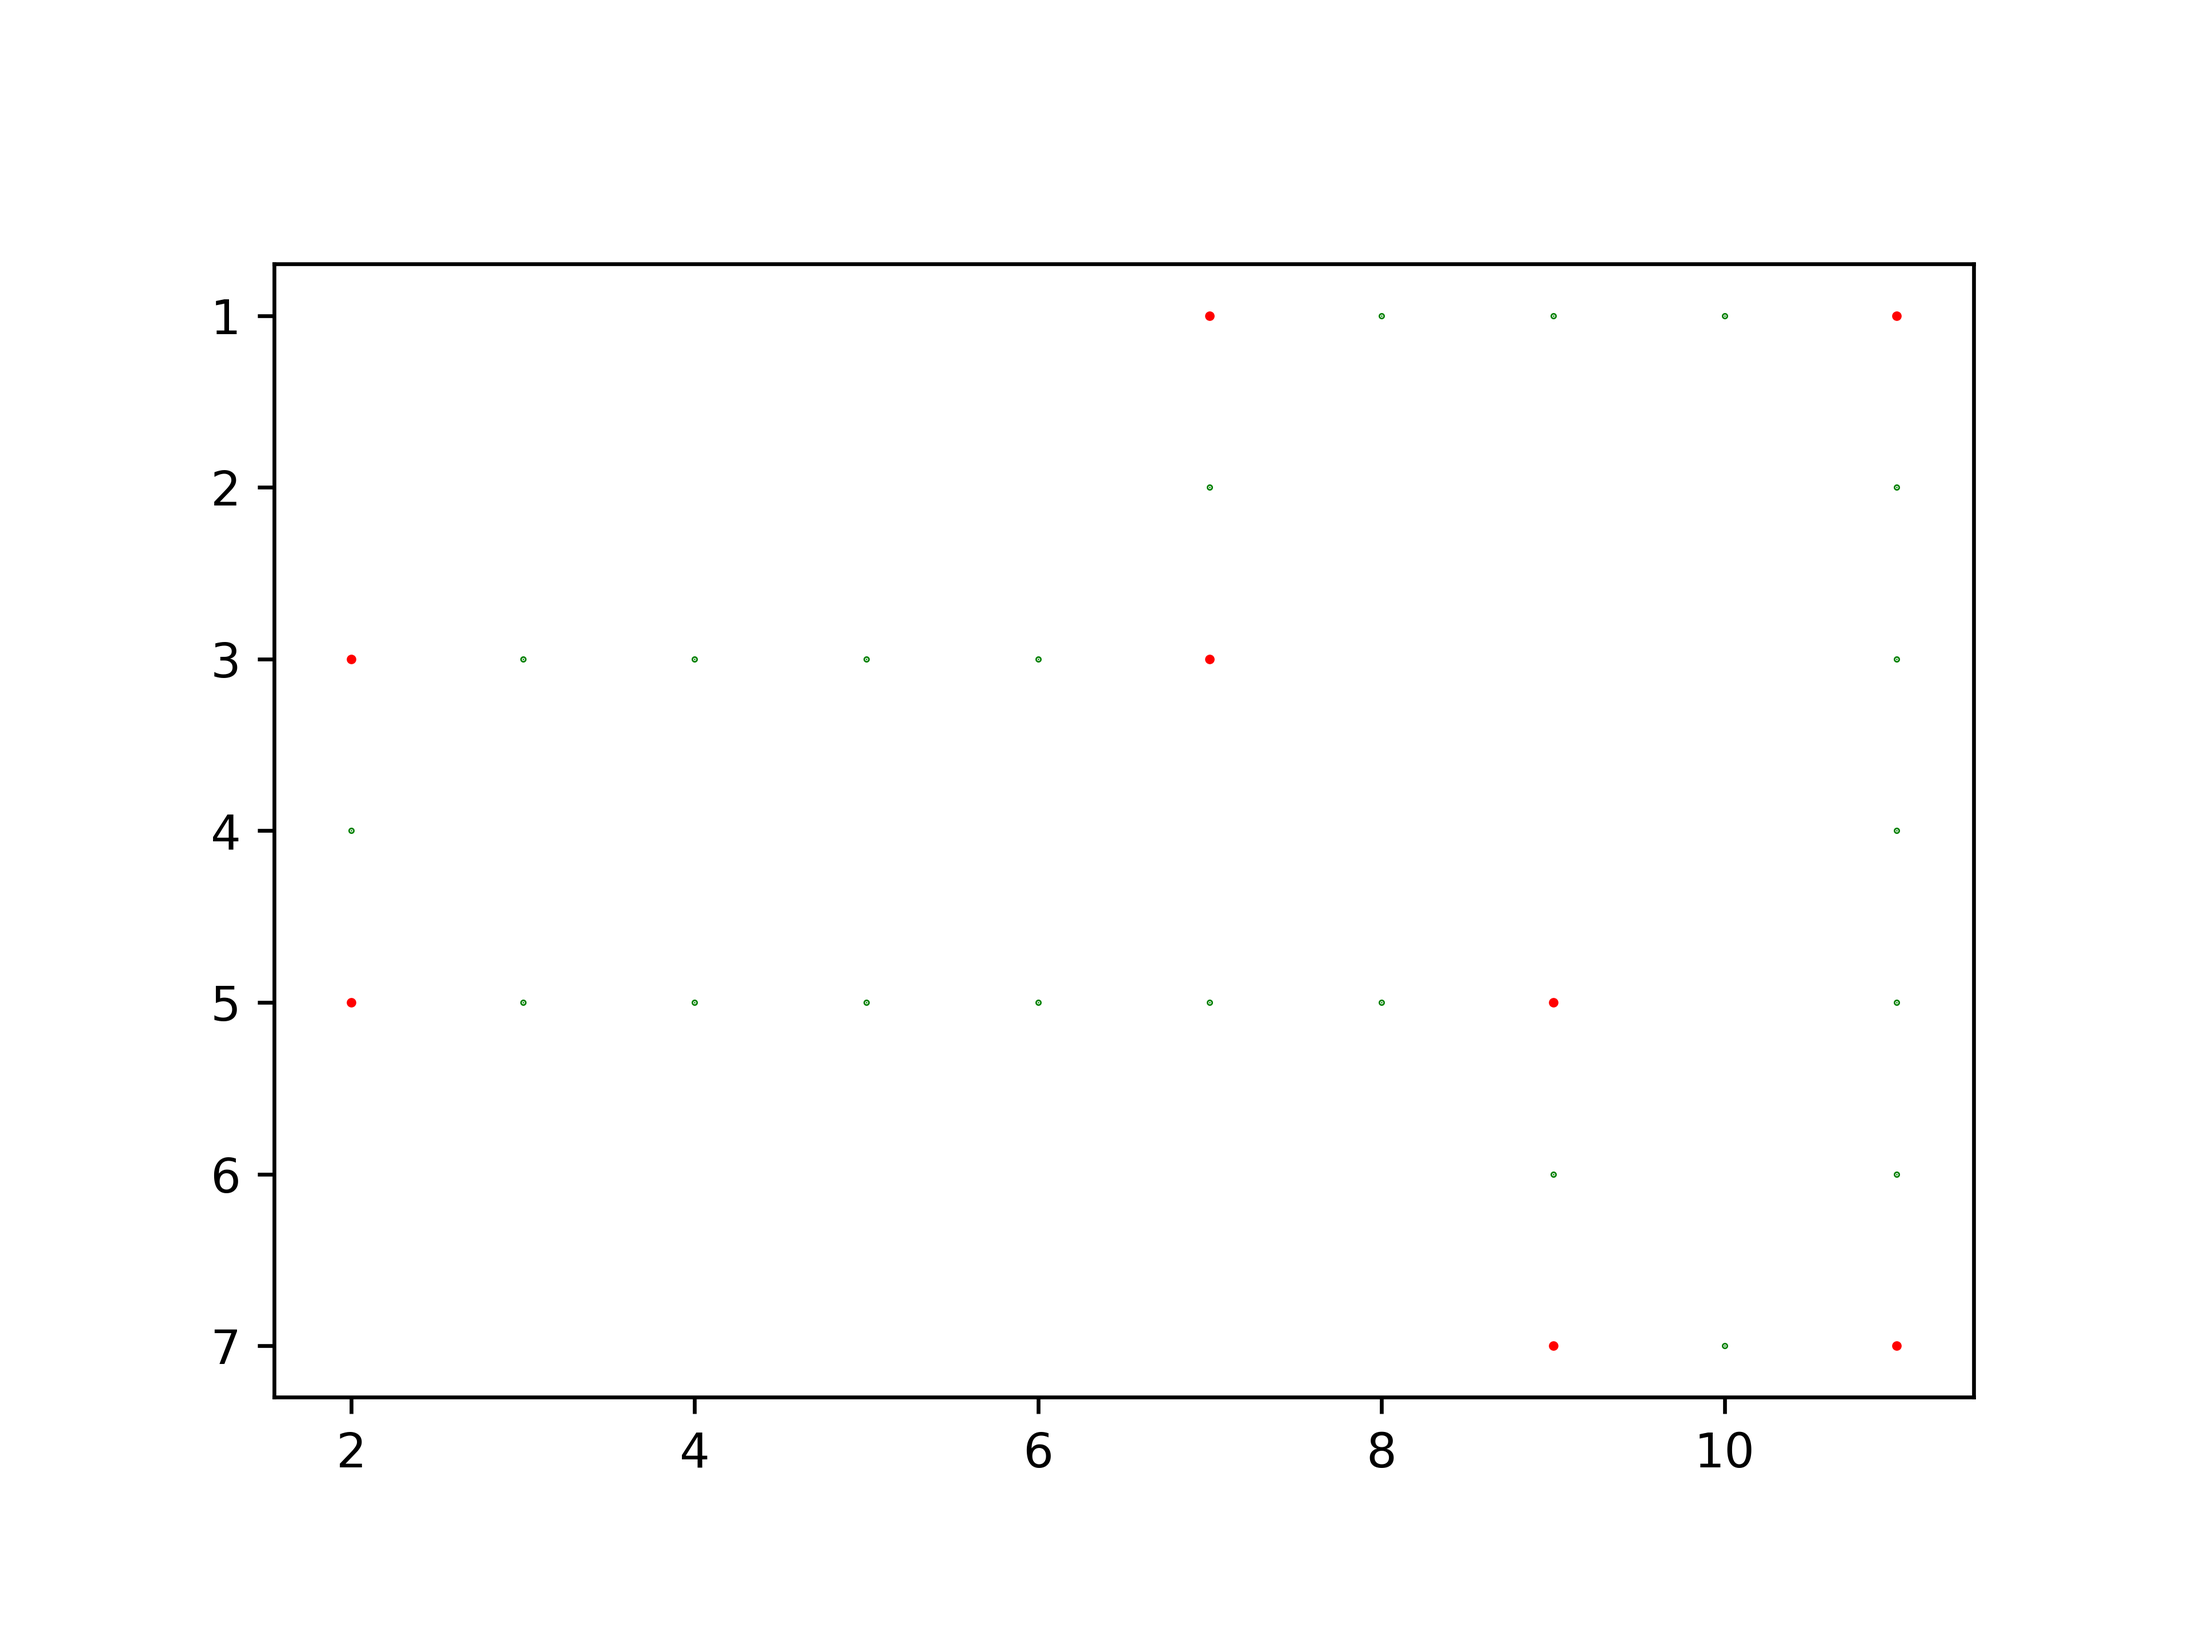
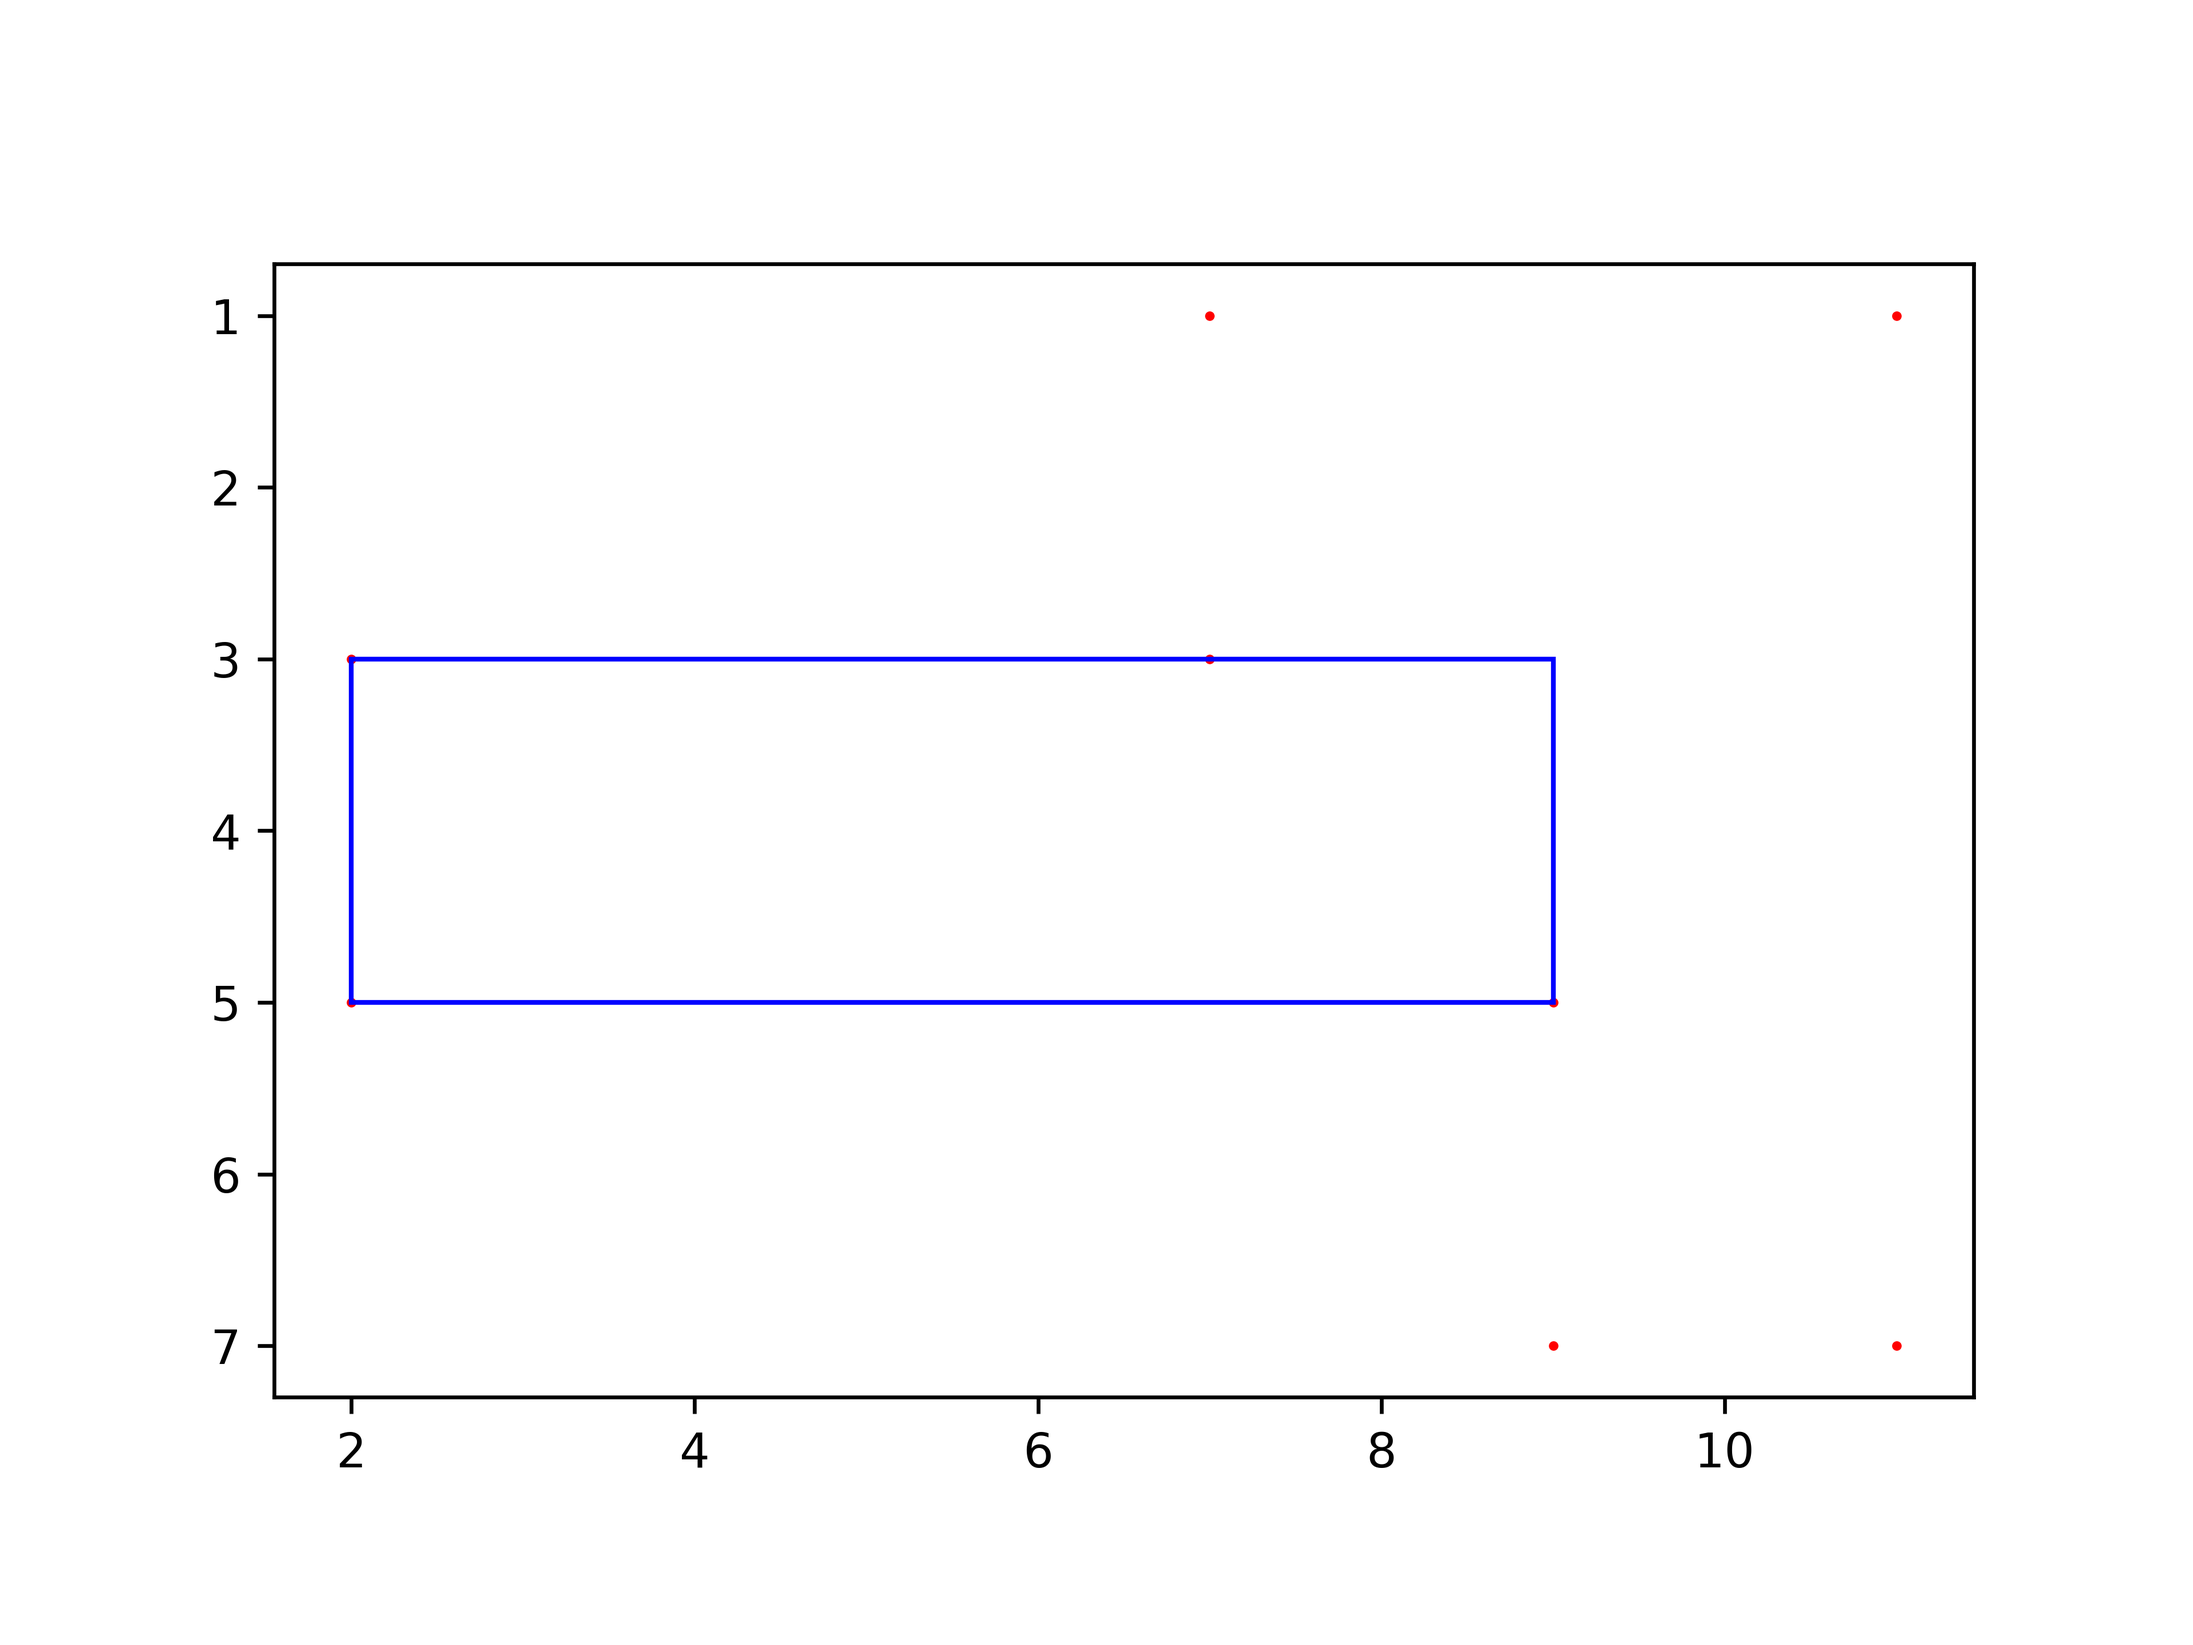
Determining inside vs outside is a mess

Changed region(s): [[0.1562, 0.5938, 0.7188, 0.625], [0.1562, 0.375, 0.6875, 0.4062]]

diff --git a/advent/theater_09.py b/advent/theater_09.py
@@ -50,54 +50,65 @@ def solve_largest(filename: str):
     return largest_area
 
 
-def contour_walk(a: Coords, b: Coords) -> Generator[Coords]:
-    left = min(a.x, b.x)
-    right = max(a.x, b.x)
-    top = min(a.y, b.y)
-    bottom = max(a.y, b.y)
-
-    for i in range(left, right + 1):
-        yield Coords(i, top)
-
-    for i in range(top, bottom + 1):
-        yield Coords(right, i)
-
-    for i in range(left, right + 1):
-        yield Coords(i, bottom)
-
-    for i in range(top, bottom + 1):
-        yield Coords(left, i)
-
-
-def find_largest_color(red_tiles: list[Coords], green_tiles: list[Coords]):
+def find_largest_color(
+    red_tiles: list[Coords], horizontal_edges: dict, vertical_edges: dict
+):
     all_pairs = combinations(red_tiles, 2)
     largest_pair = next(all_pairs)
     largest_area = area(*largest_pair)
 
-    by_rows = defaultdict(list)
-    for ti in chain(red_tiles, green_tiles):
-        by_rows[ti.y].append(ti.x)
-
-    by_cols = defaultdict(list)
-    for ti in chain(red_tiles, green_tiles):
-        by_cols[ti.x].append(ti.y)
+    tiles = set(red_tiles)
 
     for a, b in all_pairs:
-        is_inside = True
-        for ti in contour_walk(a, b):
-            left, right = min(by_rows[ti.y]), max(by_rows[ti.y])
-            if ti.x < left or ti.x > right:
-                is_inside = False
-                print(ti, "not inside, by row")
-                break
+        print("working on", (a, b))
+        # a, b are definitely inside, so the question is where do the other corners are
+        c1 = Coords(a.x, b.y)
+        print("Corner", c1)
+        if c1 in tiles:
+            c1_is_inside = True
+            print("c1 is a red tile")
+        else:
+            h_cross = False
+            for ey, (left, right) in horizontal_edges.items():
+                if left <= c1.x <= right:
+                    h_cross = not h_cross
+                    print("h cross", ey, (left, right))
 
-            top, bottom = min(by_cols[ti.x]), max(by_cols[ti.x])
-            if ti.y < top or ti.y > bottom:
-                is_inside = False
-                print(ti, "not inside, by col")
-                break
+            v_cross = False
+            for ex, (top, bottom) in vertical_edges.items():
+                if top < c1.y < bottom:
+                    v_cross = not v_cross
+                    print("v cross", ex, (top, bottom))
 
-        if not is_inside:
+            c1_is_inside = h_cross and v_cross
+            if c1_is_inside:
+                print("c1 is inside", h_cross, v_cross)
+            else:
+                print("c1 is outside", h_cross, v_cross)
+
+        c2 = Coords(b.x, a.y)
+        print("Corner", c2)
+        if c2 in tiles:
+            c2_is_inside = True
+            print("c2 is a red tile")
+        else:
+            h_cross = False
+            for ey, (left, right) in horizontal_edges.items():
+                if left < c2.x < right:
+                    h_cross = not h_cross
+
+            v_cross = False
+            for ex, (top, bottom) in vertical_edges.items():
+                if top < c2.y < bottom:
+                    v_cross = not v_cross
+
+            c2_is_inside = h_cross and v_cross
+            if c2_is_inside:
+                print("c2 is inside", h_cross, v_cross)
+            else:
+                print("c2 is outside", h_cross, v_cross)
+
+        if not c1_is_inside or not c2_is_inside:
             continue
 
         new_area = area(a, b)
@@ -107,7 +118,8 @@ def find_largest_color(red_tiles: list[Coords], green_tiles: list[Coords]):
 
     print("largest", *largest_pair)
 
-    return largest_area
+    raise RuntimeError("Stop")
+    return largest_area, largest_pair
 
 
 def solve_colorized(filename: str):
@@ -119,62 +131,62 @@ def solve_colorized(filename: str):
     red_tiles = [Coords(*map(int, line.split(","))) for line in content.split("\n")]
     print("Parsed", len(red_tiles), "red tiles.")
 
-    rows = max(ti.y for ti in red_tiles) + 3
-    cols = max(ti.x for ti in red_tiles) + 3
-
     # scan rows
+    horizontal_edges = dict()
     red_tiles.sort(key=lambda ti: (ti.y, ti.x))
-    green_tiles = list()
     last = red_tiles[0]
-    horizontal = list()
-    left, right = last.x, last.x
     for ti in red_tiles[1:]:
         if ti.y == last.y:
-            for ci in range(last.x + 1, ti.x):
-                green_tiles.append(Coords(ci, ti.y))
-            left, right = min(ti.x, left), max(ti.x, right)
-        else:
-            horizontal.append((Coords(left, last.y), Coords(right, last.y)))
-            left, right = ti.x, ti.x
-
+            horizontal_edges[last.y] = (last.x, ti.x)
         last = ti
-    horizontal.append((Coords(left, last.y), Coords(right, last.y)))
 
-    print("Horizontal")
-    print(*horizontal, sep="\n")
+    print(len(horizontal_edges), "horizontal lines")
+    pprint(horizontal_edges)
 
     # scan columns
+    vertical_edges = dict()
     red_tiles.sort(key=lambda ti: (ti.x, ti.y))
     last = red_tiles[0]
-    vertical = list()
-    top, bottom = last.y, last.y
     for ti in red_tiles[1:]:
         if ti.x == last.x:
-            for ri in range(last.y + 1, ti.y):
-                green_tiles.append(Coords(ti.x, ri))
-            top, bottom = min(ti.y, top), max(ti.y, bottom)
-        else:
-            vertical.append((Coords(last.x, top), Coords(last.x, bottom)))
-            top, bottom = ti.y, ti.y
+            vertical_edges[last.x] = (last.y, ti.y)
         last = ti
-    vertical.append((Coords(last.x, top), Coords(last.x, bottom)))
 
-    print("Vertical")
-    print(*vertical, sep="\n")
+    print(len(vertical_edges), "vertical lines")
+    pprint(vertical_edges)
 
-    largest_area = find_largest_color(red_tiles, green_tiles)
+    largest_area, corners = find_largest_color(
+        red_tiles, horizontal_edges, vertical_edges
+    )
 
     # render contour
-    xs, ys = zip(*green_tiles)
-    plt.scatter(xs, ys, s=0.1, color="green")
-    xs, ys = zip(*red_tiles)
-    plt.scatter(xs, ys, s=1, color="red")
     plt.gca().set_aspect("equal", "box")
     plt.gca().invert_yaxis()
+
+    xs, ys = zip(*red_tiles)
+    plt.scatter(xs, ys, s=1, color="red")
+
+    left = min(corners[0].x, corners[1].x)
+    right = max(corners[0].x, corners[1].x)
+    bottom = min(corners[0].y, corners[1].y)
+    top = max(corners[0].y, corners[1].y)
+
+    width = right - left
+    height = top - bottom
+
+    from matplotlib.patches import Rectangle
+
+    ax = plt.gca()
+
+    rect = Rectangle(
+        (left, bottom), width, height, fill=False, edgecolor="blue", linewidth=1
+    )
+
+    ax.add_patch(rect)
+
     plt.savefig(f"{filename}.png", dpi=600)
     plt.close()
 
-    raise RuntimeError("stop")
     return largest_area
 
 
